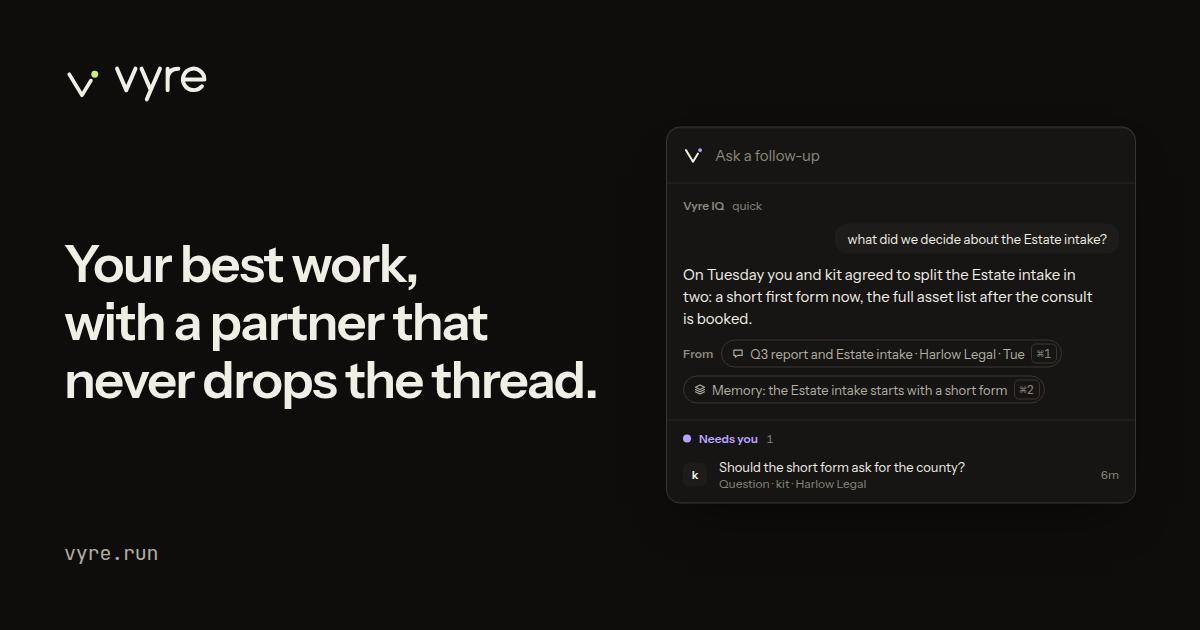
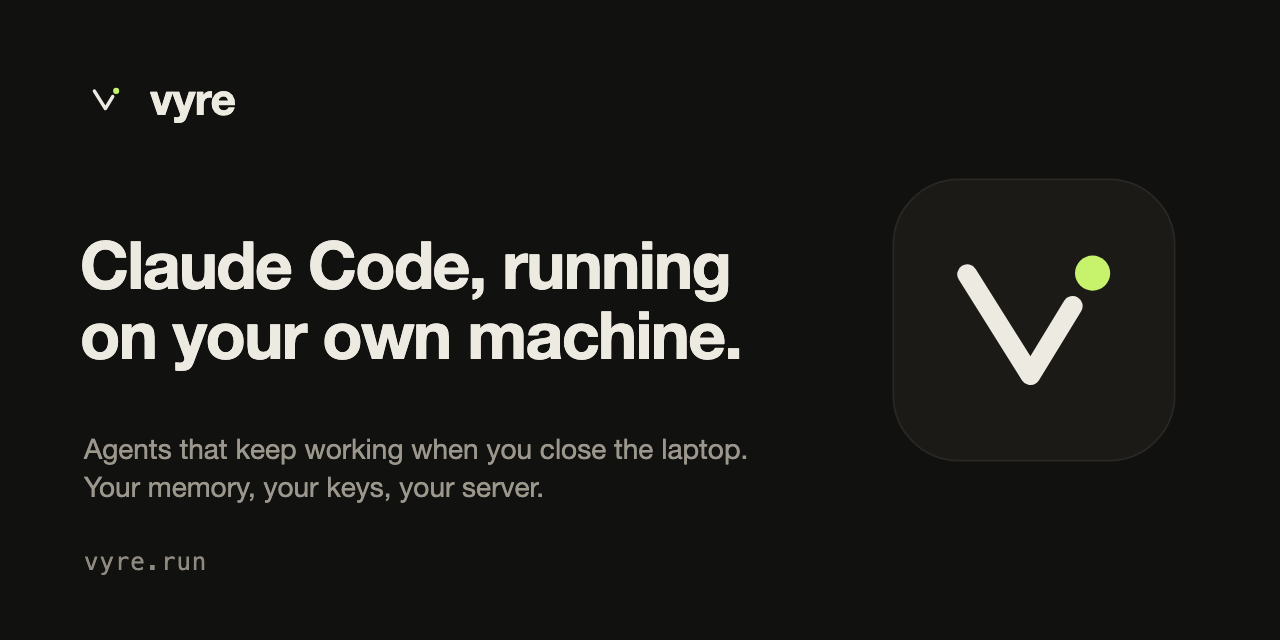
site: new headline and social image, fix stale Mac-only-is-coming wording
Hero H1/lead, title, meta description, og/twitter tags now say "Claude
Code, running on your own machine" with the approved subline (user
approved this copy for the GitHub social image). Swapped site/og.png for
the new 1280x640 social image and fixed its width/height/alt meta.

Also fixed stale copy found while in there: the Mac install tab, the
/start intro and its What's coming list, and the "Do I need a server?"
FAQ all said a Mac-only setup (no server) was still coming. It shipped
(`vyre up --box`) per docs/get-started/install.md's Other ways to
install section, so rewrote those spots to say so instead.

Did not add the brief's phone.vyre.run/Wink pairing claim: per
docs/work/launch-surfaces.md (work/launch, unmerged) it is explicitly
not started yet (no relay.pair.ticket tool). Today's real pairing flow
per docs/using/first-hour.md is a QR code shown in onboarding, which
the page already doesn't claim otherwise. Flagged to team-lead.

Deployed to vyre.run (deploy 170fab6b); title, og tags, og.png and
install.sh verified live.

diff --git a/site/index.html b/site/index.html
@@ -8,8 +8,8 @@
 <head>
   <meta charset="utf-8">
   <meta name="viewport" content="width=device-width, initial-scale=1">
-  <title>Run Claude Code on your own server · Vyre</title>
-  <meta name="description" content="Vyre runs Claude Code on a Linux server you own. Your sessions keep going when you close your laptop, and you can search all of them later. Free and open source.">
+  <title>Claude Code, running on your own machine · Vyre</title>
+  <meta name="description" content="Agents that keep working when you close the laptop. Your memory, your keys, your server. Vyre runs Claude Code on a Mac and a Linux server you own, free and open source.">
   <link rel="canonical" href="https://vyre.run/">
   <meta name="theme-color" content="#0E0D0C">
   <meta name="color-scheme" content="dark">
@@ -18,15 +18,15 @@
   <meta property="og:type" content="website">
   <meta property="og:site_name" content="Vyre">
   <meta property="og:url" content="https://vyre.run/">
-  <meta property="og:title" content="Run Claude Code on your own server · Vyre">
-  <meta property="og:description" content="Claude Code on a Linux server you own. Sessions keep going when your laptop is closed, and you can search every one. Open source.">
+  <meta property="og:title" content="Claude Code, running on your own machine · Vyre">
+  <meta property="og:description" content="Agents that keep working when you close the laptop. Your memory, your keys, your server.">
   <meta property="og:image" content="https://vyre.run/og.png">
-  <meta property="og:image:width" content="1200">
-  <meta property="og:image:height" content="630">
-  <meta property="og:image:alt" content="The Vyre mark, one wire bent into a v with a green dot leaving its end">
+  <meta property="og:image:width" content="1280">
+  <meta property="og:image:height" content="640">
+  <meta property="og:image:alt" content="Claude Code, running on your own machine. Agents that keep working when you close the laptop. Your memory, your keys, your server.">
   <meta name="twitter:card" content="summary_large_image">
-  <meta name="twitter:title" content="Run Claude Code on your own server · Vyre">
-  <meta name="twitter:description" content="Claude Code on a Linux server you own. Sessions keep going when your laptop is closed, and you can search every one. Open source.">
+  <meta name="twitter:title" content="Claude Code, running on your own machine · Vyre">
+  <meta name="twitter:description" content="Agents that keep working when you close the laptop. Your memory, your keys, your server.">
   <meta name="twitter:image" content="https://vyre.run/og.png">
   <link rel="preconnect" href="https://fonts.googleapis.com">
   <link rel="preconnect" href="https://fonts.gstatic.com" crossorigin>
@@ -64,11 +64,11 @@
   <section class="hero" id="top" aria-labelledby="hero-h">
     <div class="wrap">
       <p class="lbl eyebrow"><span>Open source, Apache 2.0</span><span aria-hidden="true">&#183;</span><span>Built on Claude Code</span></p>
-      <h1 id="hero-h" class="h-display">Run Claude Code on your own server.</h1>
+      <h1 id="hero-h" class="h-display">Claude Code, running on your own machine.</h1>
 
       <div class="hero-grid">
         <div class="hero-copy">
-          <p class="lead">Sessions you start in Vyre run on the server, so they keep going after you close your laptop. Vyre also reads every Claude Code session you run. Next month, ask what you decided about the Harlow contract and you get the answer, with the session it came from.</p>
+          <p class="lead">Agents that keep working when you close the laptop. Your memory, your keys, your server. Ask what you decided about the Harlow contract next month, and you get the answer, with the session it came from.</p>
 
           <div class="install" id="install" data-install>
             <div class="install-cmd">
@@ -90,7 +90,7 @@
             <div class="ipanel" role="tabpanel" id="h-pan-mac" aria-labelledby="h-tab-mac" tabindex="0" hidden>
               <div class="mini-cmd"><span class="prompt" aria-hidden="true">$</span><code id="cmd-hero-mac">npm install -g https://vyre.run/box/vyre.tgz</code><button class="btn btn-line btn-sm copy" type="button" data-copy="npm install -g https://vyre.run/box/vyre.tgz" data-copy-target="cmd-hero-mac" aria-label="Copy the Mac install command">Copy</button></div>
               <div class="mini-cmd"><span class="prompt" aria-hidden="true">$</span><code id="cmd-hero-up">vyre up</code><button class="btn btn-line btn-sm copy" type="button" data-copy="vyre up" data-copy-target="cmd-hero-up" aria-label="Copy vyre up">Copy</button></div>
-              <p>This connects your Mac to your Vyre server over Tailscale, so set up the server first. A Mac-only setup is coming. Vyre isn&#39;t on npm yet, so you install it from the same file the server uses.</p>
+              <p>This connects your Mac to a Vyre server over Tailscale. Vyre isn&#39;t on npm yet, so you install it from the same file the server uses. No server yet? <code>vyre up --box</code> runs Vyre on just this Mac.</p>
             </div>
             <div class="ipanel" role="tabpanel" id="h-pan-needs" aria-labelledby="h-tab-needs" tabindex="0" hidden>
               <ul class="needs">
@@ -463,7 +463,7 @@
           </details>
           <details>
             <summary>Do I need a server?</summary>
-            <p>Yes, for now. Vyre needs a Linux server with Docker, like a small cloud server or a spare PC at home. Your Mac connects to it. A setup that runs on one Mac, with no server, is coming.</p>
+            <p>No, but it helps. A server, like a small cloud box or a spare PC at home, keeps agents working while your Mac sleeps and lets your phone reach them from anywhere. <code>vyre up --box</code> runs Vyre on just this Mac instead.</p>
           </details>
           <details>
             <summary>Does it replace Claude Code?</summary>
@@ -511,7 +511,7 @@
           <div class="ipanel" role="tabpanel" id="e-pan-mac" aria-labelledby="e-tab-mac" tabindex="0" hidden>
             <div class="mini-cmd"><span class="prompt" aria-hidden="true">$</span><code id="cmd-end-mac">npm install -g https://vyre.run/box/vyre.tgz</code><button class="btn btn-line btn-sm copy" type="button" data-copy="npm install -g https://vyre.run/box/vyre.tgz" data-copy-target="cmd-end-mac" aria-label="Copy the Mac install command">Copy</button></div>
             <div class="mini-cmd"><span class="prompt" aria-hidden="true">$</span><code id="cmd-end-up">vyre up</code><button class="btn btn-line btn-sm copy" type="button" data-copy="vyre up" data-copy-target="cmd-end-up" aria-label="Copy vyre up">Copy</button></div>
-            <p>This connects your Mac to your Vyre server over Tailscale, so set up the server first. A Mac-only setup is coming. Vyre isn&#39;t on npm yet, so you install it from the same file the server uses.</p>
+            <p>This connects your Mac to a Vyre server over Tailscale. Vyre isn&#39;t on npm yet, so you install it from the same file the server uses. No server yet? <code>vyre up --box</code> runs Vyre on just this Mac.</p>
           </div>
           <div class="ipanel" role="tabpanel" id="e-pan-needs" aria-labelledby="e-tab-needs" tabindex="0" hidden>
             <ul class="needs">

diff --git a/site/start/index.html b/site/start/index.html
@@ -52,7 +52,7 @@
       <p class="lbl">Install guide</p>
       <h1 class="h-display">Install Vyre on your server and your Mac.</h1>
       <p class="lead">Every step, in the order you run them.</p>
-      <p class="body">Vyre isn&#39;t on npm yet, and we haven&#39;t signed the Mac app. For now the server and the Mac both install from one tarball on vyre.run, and the installer checks it against a published SHA-256. Vyre needs a Linux server today. A setup that runs on one Mac is coming.</p>
+      <p class="body">Vyre isn&#39;t on npm yet, and we haven&#39;t signed the Mac app. For now the server and the Mac both install from one tarball on vyre.run, and the installer checks it against a published SHA-256. A server is recommended, so agents keep working while your Mac sleeps, but <code>vyre up --box</code> runs Vyre on just this Mac instead.</p>
     </div>
 
     <section class="part" aria-labelledby="need-h">
@@ -159,12 +159,12 @@
             <li><strong>The Mac CLI and Claude Code plugin.</strong> <code>npm install -g</code> from the tarball, <code>vyre up</code>, and Vyre's tools inside Claude Code.</li>
             <li><strong>The Capsule.</strong> <code>vyre capsule</code> builds it on your Mac. Option-Space opens it, or Control twice if you switch.</li>
             <li><strong>Finding the server.</strong> <code>vyre up</code> on the Mac finds the server on your tailnet, or takes its address.</li>
+            <li><strong>Running with no server.</strong> <code>vyre up --box</code> makes this Mac the box. Your phone reaches it only while the Mac is awake.</li>
           </ul>
           <p>We haven&#39;t yet checked the Tailscale sign-in, the certificate for your address or pairing on a real server. They pass in tests against a simulated tailnet.</p>
           <h2 class="h2">What's coming</h2>
           <ul class="need">
             <li><strong>npm.</strong> <code>npm install -g vyre</code> works once the package is published. Until then, use the tarball URL.</li>
-            <li><strong>A Mac-only setup.</strong> Today Vyre needs a Linux server. A setup that runs on one Mac, with no server, is coming.</li>
             <li><strong>A published image.</strong> Today each server builds its own image from the tarball, which takes a few minutes. <code>vyre update</code> rebuilds it.</li>
             <li><strong>A signed, notarized Mac app to download.</strong> Until then the Capsule is built on your Mac by <code>vyre capsule</code>.</li>
             <li><strong>A vyre.run name.</strong> Your address is your tailnet name today. A <code>&lt;you&gt;.vyre.run</code> name needs a hosted name directory. We&#39;ve designed it (ADR 0002) but not built it.</li>
